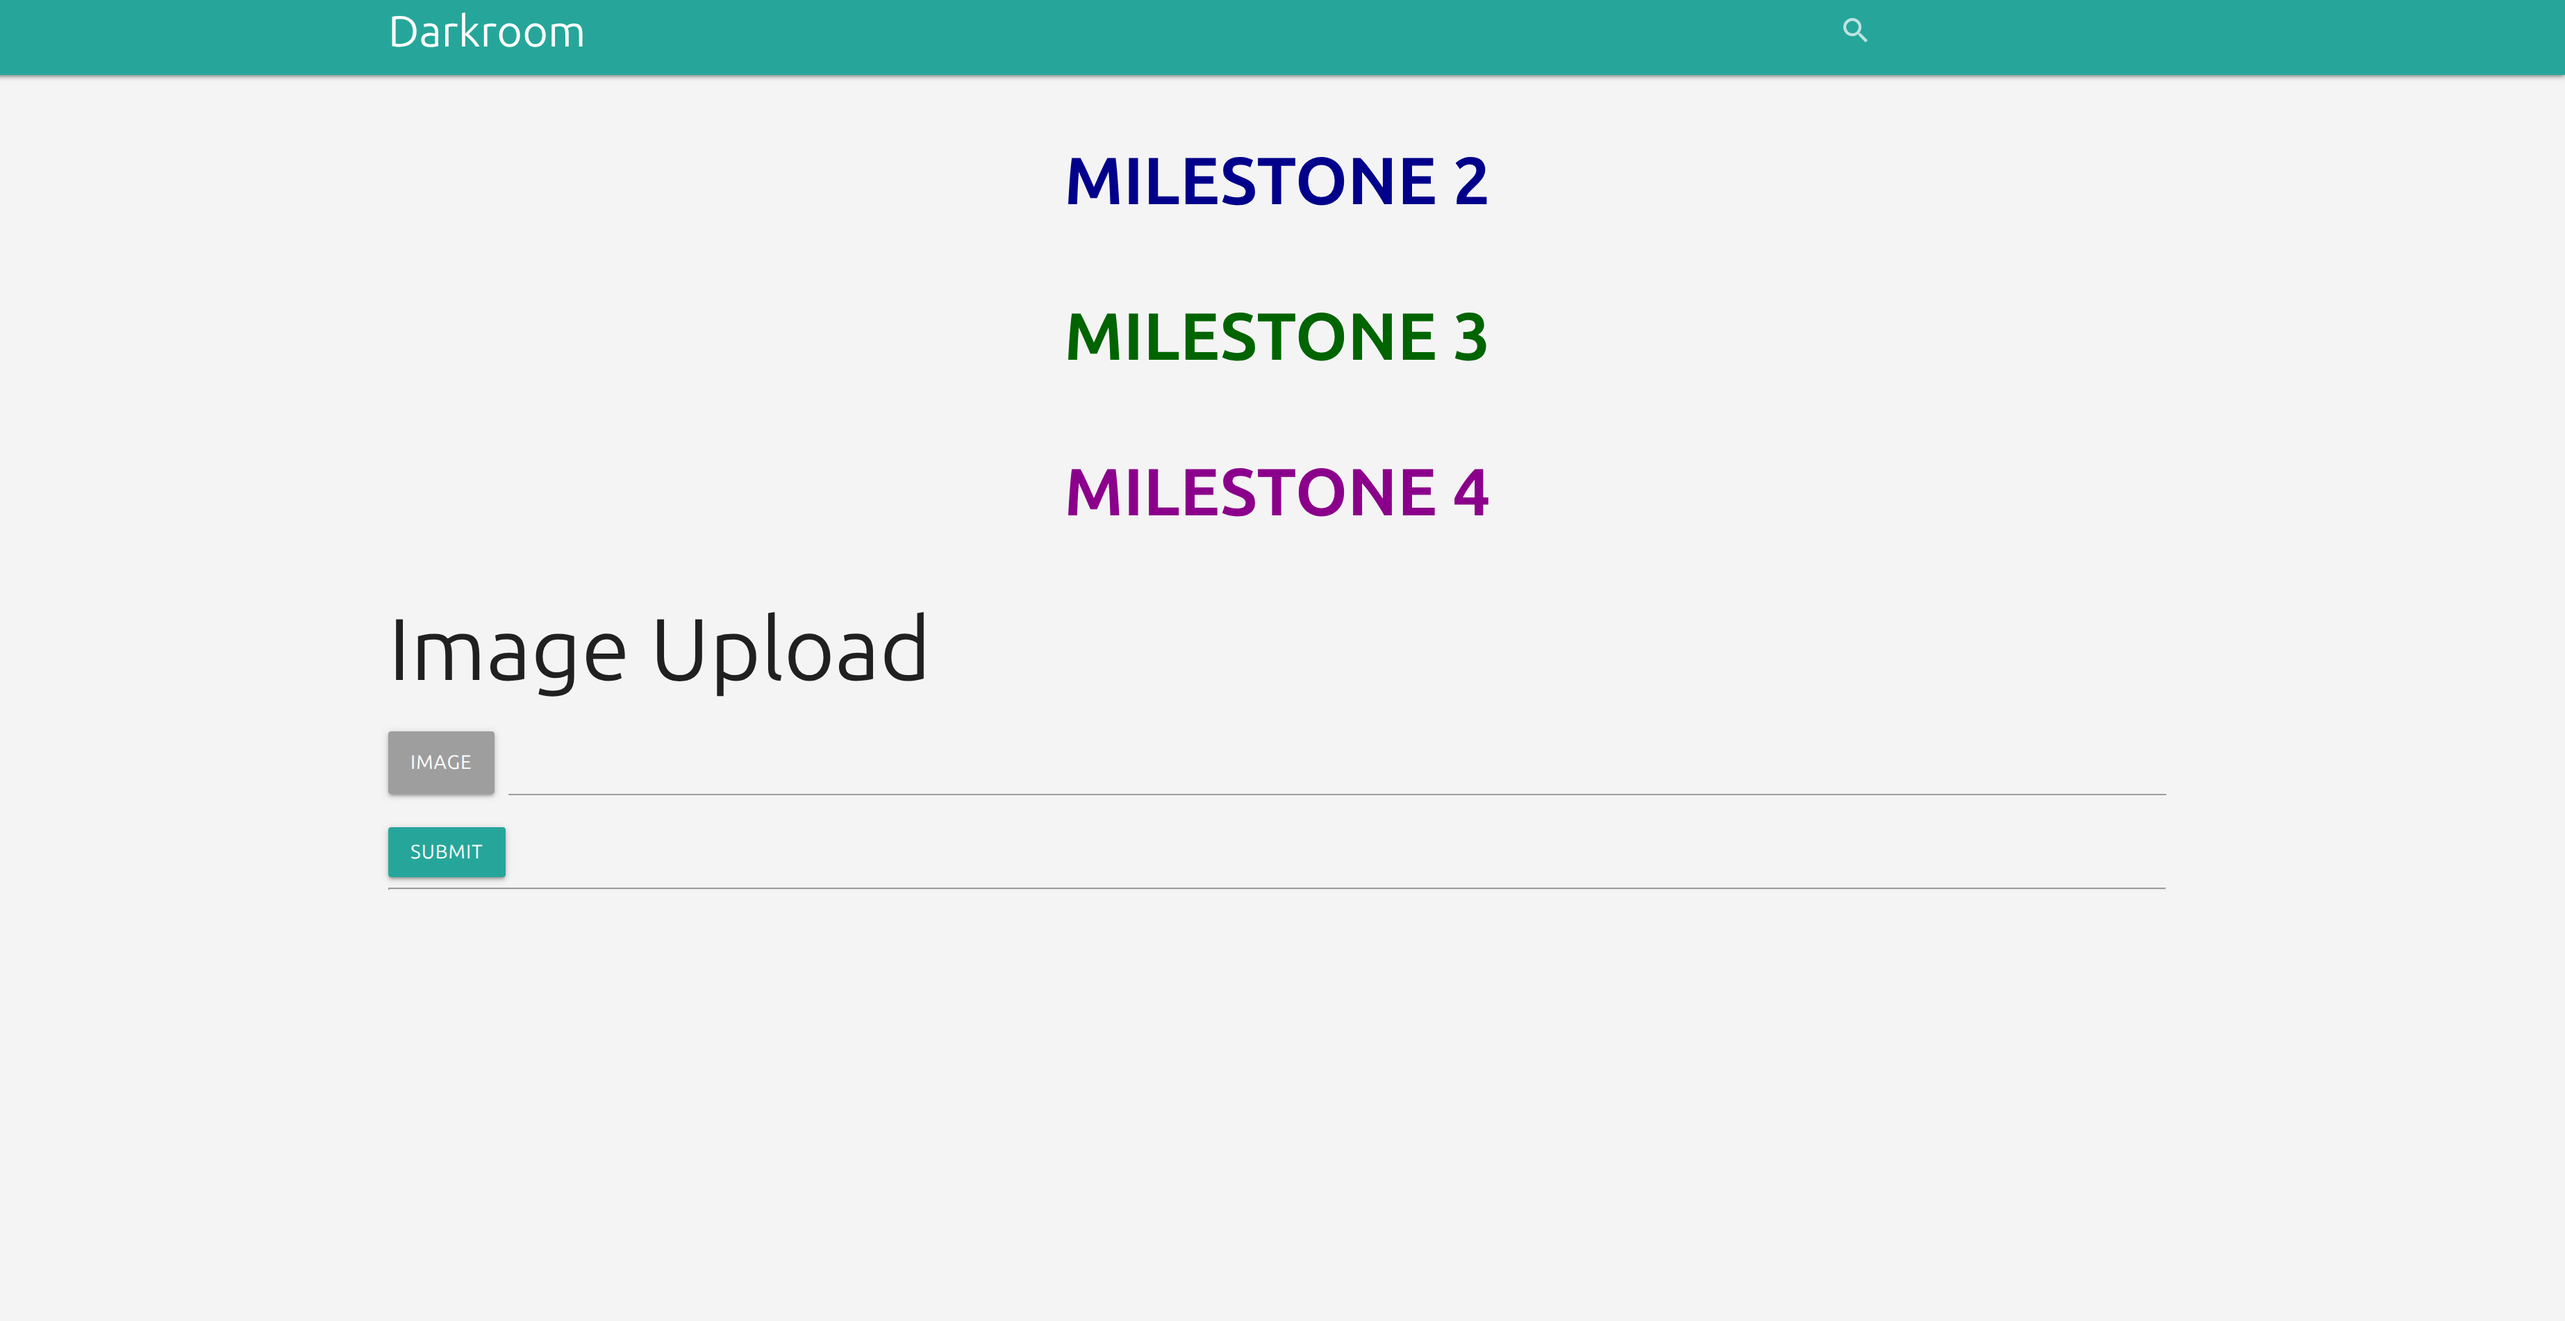
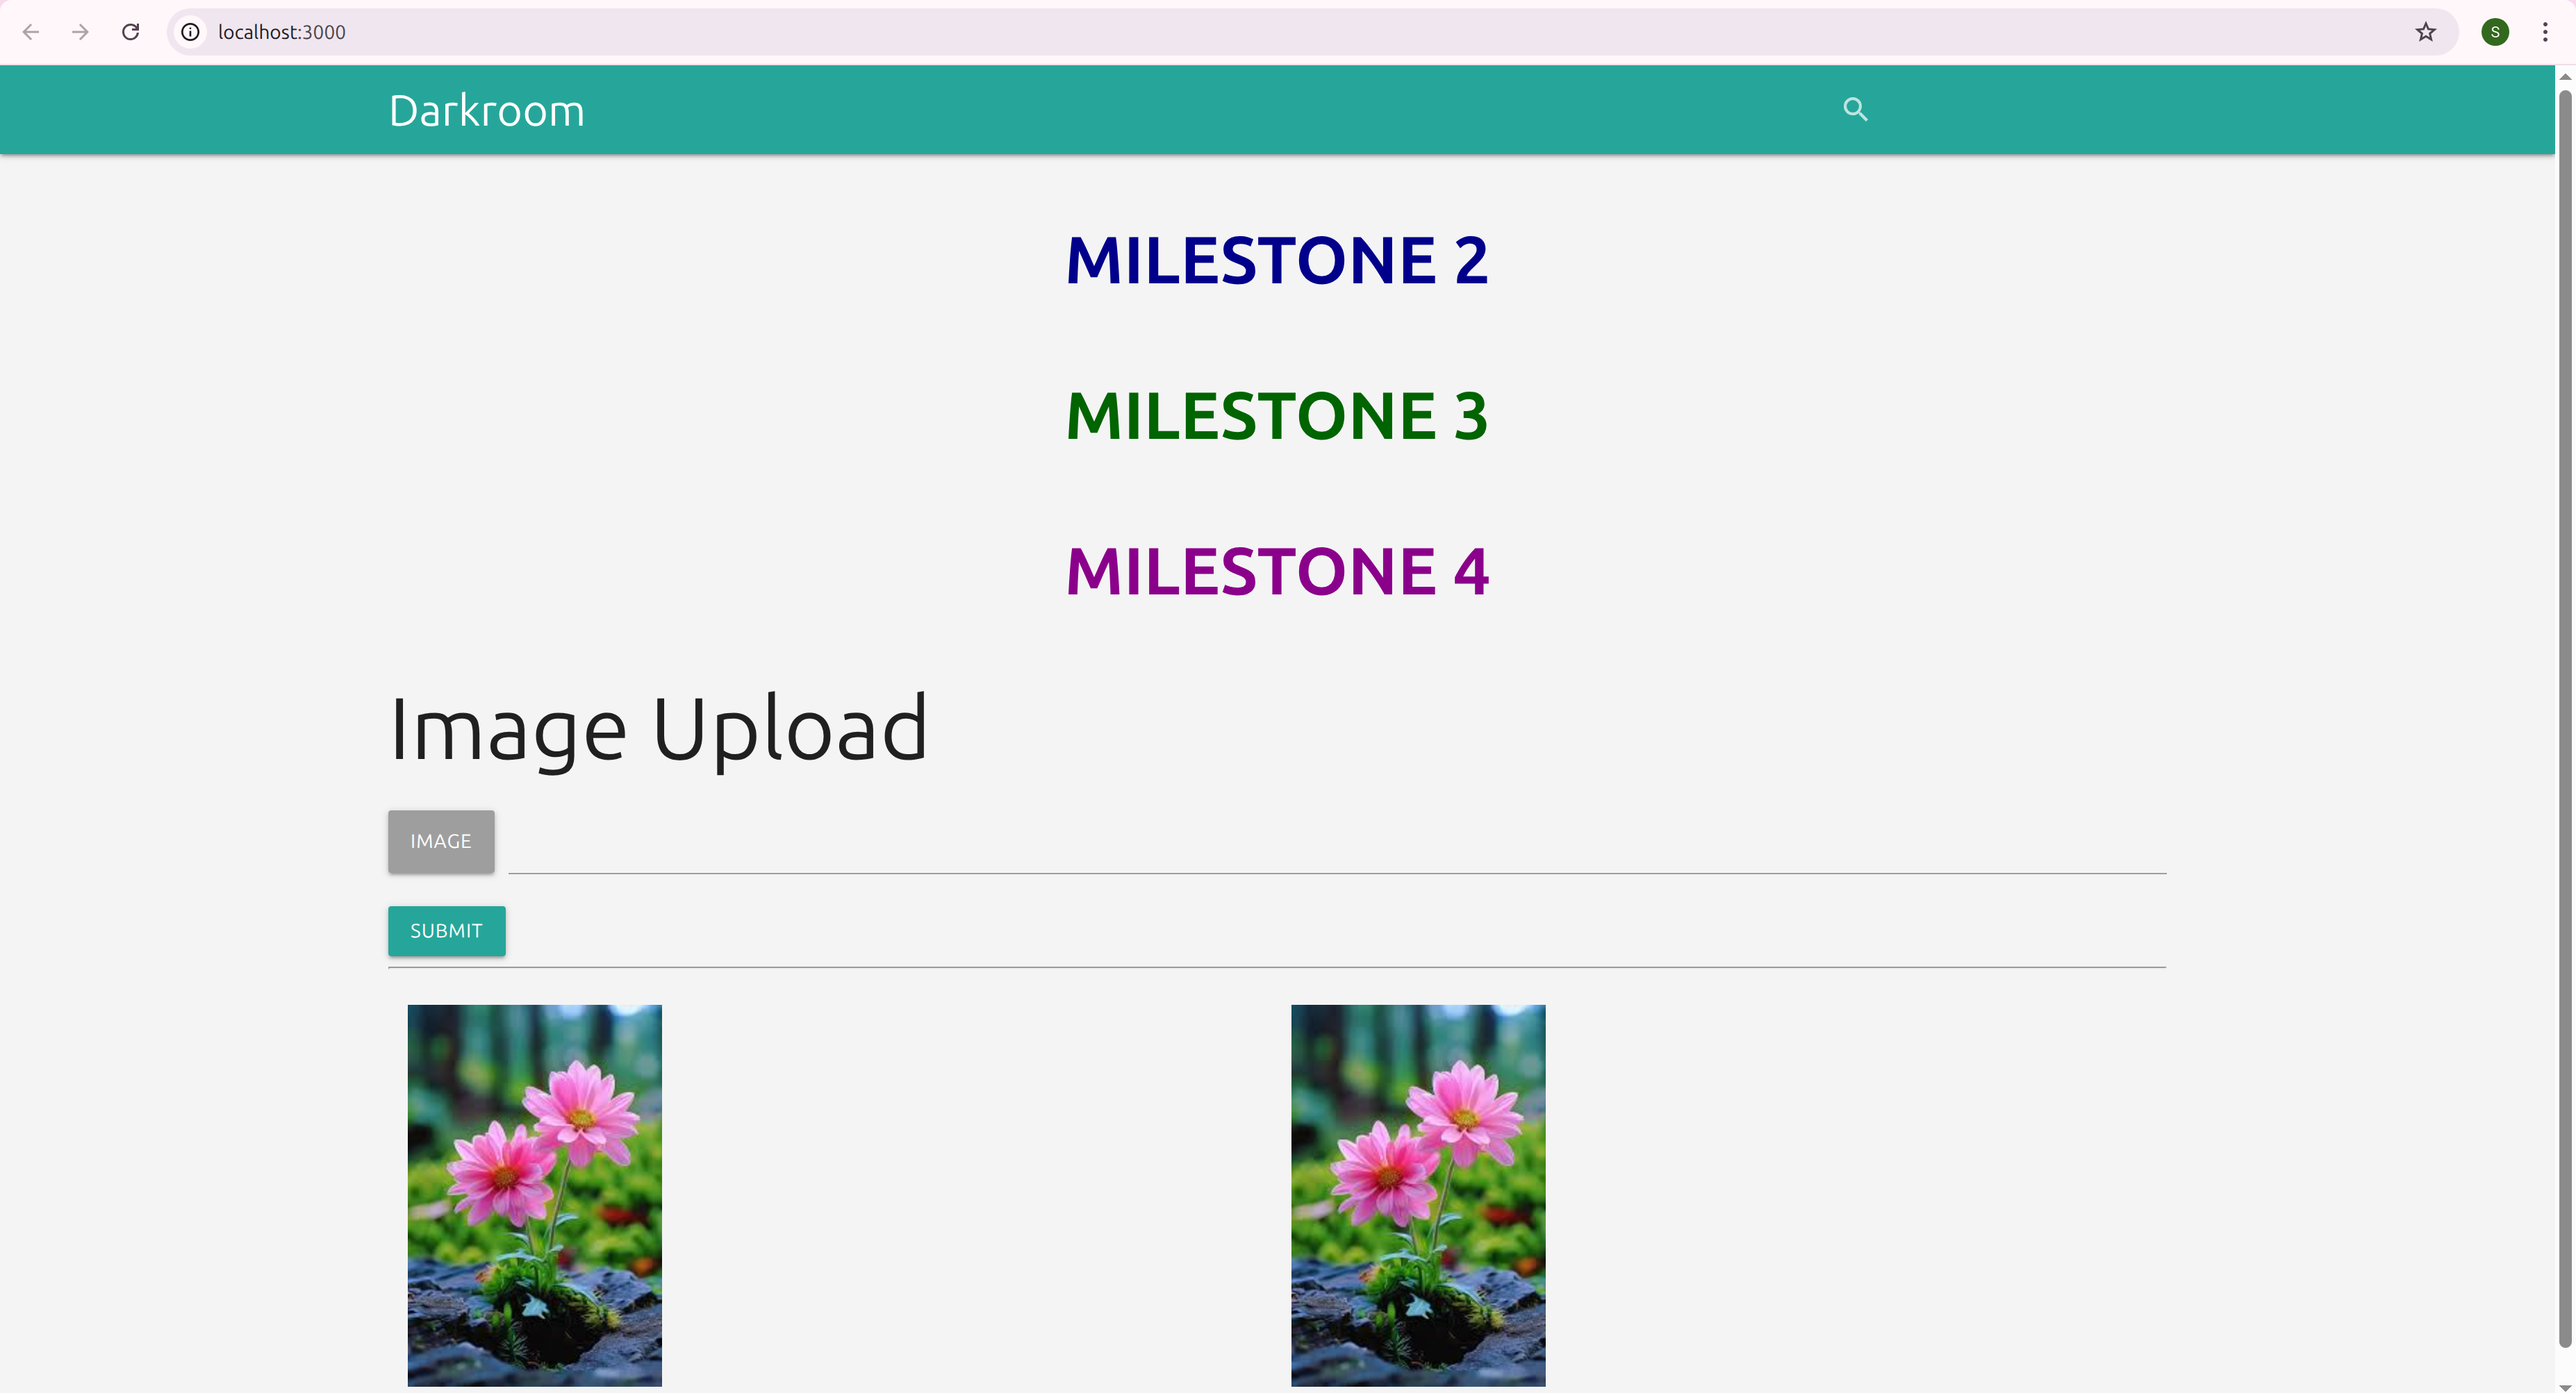
Update server.js, index.ejs, assets, and .gitignore

diff --git a/server.js b/server.js
@@ -1,9 +1,18 @@
 const express = require('express');
 const mongoose = require('mongoose');
+const path = require('path'); // <-- add this
 const config = require('./_config');
 const Image = require('./models/images');
 
 const app = express();
+
+// Set EJS as view engine
+app.set('view engine', 'ejs');
+app.set('views', path.join(__dirname, 'views')); // make sure your index.ejs is in /views
+
+// Serve static files (for images and CSS)
+app.use(express.static(path.join(__dirname, 'public'))); 
+// if your images are in /public/images and CSS in /public/css
 
 // Pick DB URI depending on environment
 const env = process.env.NODE_ENV || 'development';
@@ -14,14 +23,14 @@ mongoose.connect(dbURI, { useNewUrlParser: true, useUnifiedTopology: true })
   .then(() => console.log('✅ Connected to Database:', dbURI))
   .catch(err => console.error('❌ DB connection error:', err));
 
-// Simple route
+// Root route — render EJS template instead of sending JSON
 app.get('/', async (req, res) => {
   try {
     const images = await Image.find({});
-    res.status(200).json(images);
+    res.render('index', { images }); // ✅ render index.ejs
   } catch (err) {
     console.error('Error fetching images:', err);
-    res.status(500).send('Internal Server Error');
+    res.render('index', { images: [], msg: 'Failed to load images' });
   }
 });
 
